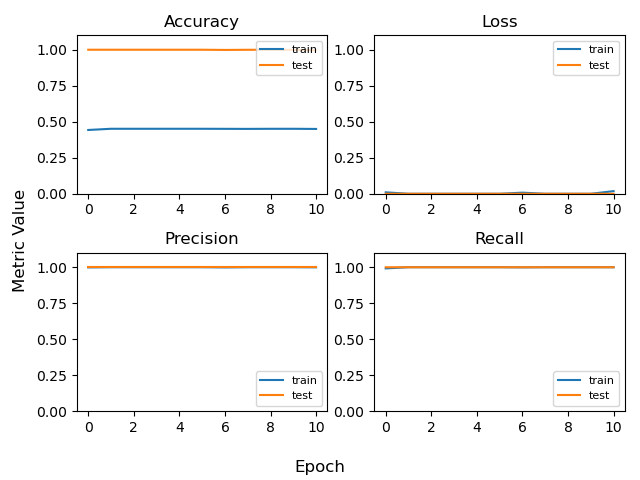
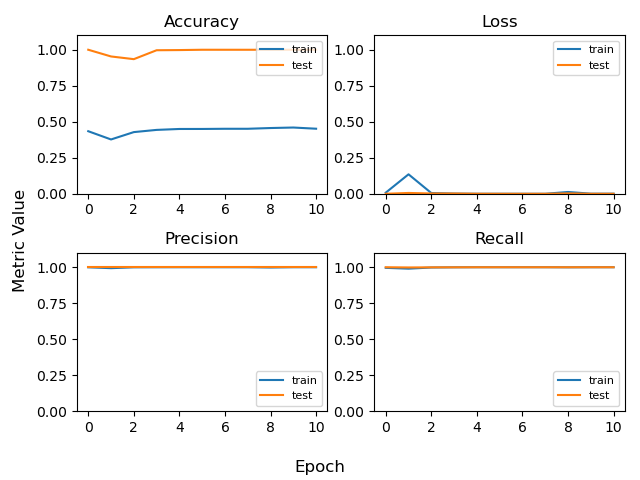
fixing test bug

diff --git a/ShapeDNN/PreprocessShape_enrich.py b/ShapeDNN/PreprocessShape_enrich.py
@@ -80,29 +80,19 @@ def preprocessShapeFile(seq_file, All_Shapes, test_clsts, train_clsts, file_list
 				Seqs = readInputAsArray(seq_file + enriched+'regions_seqOnly_'+shape+'.txt')
 			else:
 				Seqs = readInputAsArray(seq_file +species+'Eseqs_seqOnly_200000_'+shape+'.txt')
-				Sequences = readInputAsArray('/project/rohs_102/share/nucleosome_occupancy_data/'+species+'Eseqs_seqOnly_200000.txt')
-				print(seq_file +species+'Eseqs_seqOnly_200000_'+shape+'.txt')
-			seq_line_cnt=0	
+			#Seqs = readInputAsArray(seq_file +'wormEseqs_seqOnly_200000_'+shape+'.txt')
+			#Seqs = readInputAsArray(seq_file +'flyEseqs_seqOnly_200000_'+shape+'.txt')
 			for line in Seqs:
 				l = line.split()
-				if species == 'yeast':
-					if l[1] != '3': # Only consider flanking region of size 3
-						continue;
-					curr_seq_shape_list = list_str_to_float(l[2:])
-					curr_seq = l[0]
+				if l[1] != '3': # Only consider flanking region of size 3
+					continue;
+				curr_seq_shape_list = list_str_to_float(l[2:])
+				curr_seq = l[0]
 
-					if len(curr_seq) > len(curr_seq_shape_list):
-						bp_shape = False
-					else:
-						bp_shape = True
+				if len(curr_seq) > len(curr_seq_shape_list):
+					bp_shape = False
 				else:
-					curr_seq_shape_list = list_str_to_float(l)
-					curr_seq=Sequences[seq_line_cnt]
-					seq_line_cnt+=1
-					if len(curr_seq_shape_list) ==146:
-						bp_shape = False
-					else:
-						bp_shape = True
+					bp_shape = True
 
 				if bp_shape:
 					if len(curr_seq_shape_list) < 147:
@@ -216,7 +206,7 @@ def preprocessShapeFile(seq_file, All_Shapes, test_clsts, train_clsts, file_list
             # with gzip.open(seq_file+'test_processed_'+enriched+shape+'.gz', 'wb') as f:
             #     f.write(test_out.encode())
 
-
+# separate train/test data based on clustered sequence data
 def getClusterIndex(cluster_file, seq_file, species):
     all_curr_seq_index = []
     curr_seq_index = []
@@ -252,6 +242,10 @@ def getClusterIndex(cluster_file, seq_file, species):
     print(f"target train seqs {train_seq_num}")
     test_seq_num = total_select_seq_num - train_seq_num
     print(f"target test seqs {test_seq_num}")
+	
+    # first shuffle the cluster list
+    random.shuffle(all_curr_seq_index)
+
     for clstr in all_curr_seq_index:
         
         # 1. select the seqs from clstr
@@ -285,11 +279,12 @@ def getClusterIndex(cluster_file, seq_file, species):
     return test_clsts, train_clsts
 
 All_Shapes=['Buckle-FL', 'Buckle', 'EP', 'HelT-FL', 'HelT', 'MGW-FL', 'MGW',
-             'Opening-FL', 'Opening', 'ProT-FL', 'ProT', 'Rise-FL', 'Rise', 'Roll-FL',
-             'Roll', 'Shear-FL', 'Shear', 'Shift-FL', 'Shift', 'Slide-FL', 'Slide',
-             'Stagger-FL', 'Stagger', 'Stretch-FL', 'Stretch', 'Tilt-FL', 'Tilt']
-All_Shapes=['Buckle-FL','Stretch']
+			 'Opening-FL', 'Opening', 'ProT-FL', 'ProT', 'Rise-FL', 'Rise', 'Roll-FL',
+			 'Roll', 'Shear-FL', 'Shear', 'Shift-FL', 'Shift', 'Slide-FL', 'Slide',
+			 'Stagger-FL', 'Stagger', 'Stretch-FL', 'Stretch', 'Tilt-FL', 'Tilt']
 
+#All_Shapes=['Buckle-FL', 'Stretch']
+#All_Shapes=['Stagger-FL', 'Stagger','Stretch',  'Stretch-FL', 'Tilt-FL', 'Tilt']
 seq_file='/project/rohs_108/yibeijia/data/yibei_predictions2/'
 #seq_file='/home/yibei/Downloads/yibei_predictions/'
 import sys
@@ -302,41 +297,27 @@ path='/project/rohs_102/share/nucleosome_occupancy_data/'
 if species =='human': 
     Eseqs = readInputAsArray(path+species+'Eseqs.txt')[1:] # avoid the first \n
     Ecluster = readInputAsArray(path+species+'Eseqs80_every20.clstr')    
-    print(len(Eseqs))
-    print(len(Ecluster))
+    
 elif species == 'yeast':
     Eseqs = readInputAsArray(path+'Eseqs.txt')[1:] # avoid the first \n
     Ecluster = readInputAsArray(path+'Eseqs80.clstr')
     
     Dcluster = readInputAsArray(path+'Dseqs80.clstr')
     Dseqs = readInputAsArray(path+'Dseqs.txt')[1:]
-elif species =='fly':
+
+elif species == 'fly':
 	Eseqs = readInputAsArray(path+species+'Eseqs.txt')[1:] # avoid the first \n
 	Ecluster = readInputAsArray(path+species+'Eseqs80_every10.clstr')
-	print(len(Eseqs))
-	print(len(Ecluster))
+
 else:
     Eseqs = readInputAsArray(path+species+'Eseqs.txt')[1:] # avoid the first \n
     Ecluster = readInputAsArray(path+species+'Eseqs80_every5.clstr')
 
 file_list = ['enriched_']
 E_test_clsts, E_train_clsts = getClusterIndex(Ecluster, seq_file, species)
-print("E_test_clsts")
-print(E_test_clsts)
-print("E_train_clsts")
-print(E_train_clsts)
-if species != 'yeast':
-	E_test_clsts = E_test_clsts+E_train_clsts
-	print("species not yeast")
-	print("E_test_clsts")
-	print(E_test_clsts)
-	print("E_train_clsts")
-	print(E_train_clsts)
-	preprocessShapeFile(seq_file, All_Shapes, E_test_clsts, E_train_clsts,file_list, species)
-else:
-    preprocessShapeFile(seq_file, All_Shapes, E_test_clsts, E_train_clsts,file_list, species)
+preprocessShapeFile(seq_file, All_Shapes, E_test_clsts, E_train_clsts,file_list, species)
 
 #file_list = ['depleted_']
 #D_test_clsts, D_train_clsts = getClusterIndex(Dcluster, seq_file, species)
-#preprocessShapeFile(seq_file, All_Shapes, D_test_clsts, D_train_clsts,file_list )
-
+#preprocessShapeFile(seq_file, All_Shapes, D_test_clsts, D_train_clsts,file_list, species)
+#

diff --git a/ShapeDNN/PreprocessShape_deplete.py b/ShapeDNN/PreprocessShape_deplete.py
@@ -206,7 +206,7 @@ def preprocessShapeFile(seq_file, All_Shapes, test_clsts, train_clsts, file_list
             # with gzip.open(seq_file+'test_processed_'+enriched+shape+'.gz', 'wb') as f:
             #     f.write(test_out.encode())
 
-
+# separate train/test data based on clustered sequence data
 def getClusterIndex(cluster_file, seq_file, species):
     all_curr_seq_index = []
     curr_seq_index = []
@@ -242,6 +242,10 @@ def getClusterIndex(cluster_file, seq_file, species):
     print(f"target train seqs {train_seq_num}")
     test_seq_num = total_select_seq_num - train_seq_num
     print(f"target test seqs {test_seq_num}")
+	
+    # first shuffle the cluster list
+    random.shuffle(all_curr_seq_index)
+
     for clstr in all_curr_seq_index:
         
         # 1. select the seqs from clstr
@@ -274,13 +278,13 @@ def getClusterIndex(cluster_file, seq_file, species):
     # print(train_clsts)
     return test_clsts, train_clsts
 
-#	All_Shapes=['Buckle-FL', 'Buckle', 'EP', 'HelT-FL', 'HelT', 'MGW-FL', 'MGW',
-#				 'Opening-FL', 'Opening', 'ProT-FL', 'ProT', 'Rise-FL', 'Rise', 'Roll-FL',
-#				 'Roll', 'Shear-FL', 'Shear', 'Shift-FL', 'Shift', 'Slide-FL', 'Slide',
-#				 'Stagger-FL', 'Stagger', 'Stretch-FL', 'Stretch', 'Tilt-FL', 'Tilt']
+All_Shapes=['Buckle-FL', 'Buckle', 'EP', 'HelT-FL', 'HelT', 'MGW-FL', 'MGW',
+			 'Opening-FL', 'Opening', 'ProT-FL', 'ProT', 'Rise-FL', 'Rise', 'Roll-FL',
+			 'Roll', 'Shear-FL', 'Shear', 'Shift-FL', 'Shift', 'Slide-FL', 'Slide',
+			 'Stagger-FL', 'Stagger', 'Stretch-FL', 'Stretch', 'Tilt-FL', 'Tilt']
 
-All_Shapes=['Buckle-FL', 'Stretch']
-All_Shapes=['Stagger-FL', 'Stagger','Stretch',  'Stretch-FL', 'Tilt-FL', 'Tilt']
+#All_Shapes=['Buckle-FL', 'Stretch']
+#All_Shapes=['Stagger-FL', 'Stagger','Stretch',  'Stretch-FL', 'Tilt-FL', 'Tilt']
 seq_file='/project/rohs_108/yibeijia/data/yibei_predictions2/'
 #seq_file='/home/yibei/Downloads/yibei_predictions/'
 import sys

diff --git a/ShapeDNN/testShapeDNN.py b/ShapeDNN/testShapeDNN.py
@@ -159,6 +159,10 @@ print("Averaged AUPR:", np.nanmean(auprs))
 from sklearn.metrics import accuracy_score
 from sklearn.metrics import precision_score
 from sklearn.metrics import recall_score 
-print("accuracy_score", accuracy_score(y_test.T,tpreds))
-print("precision_score", precision_score(y_test.T,tpreds))
-print("recall_score", recall_score(y_test.T,tpreds))
+print('y_test size')
+print(np.array(y_test).shape)
+print('tpreds size')
+print(np.array(tpreds).shape)
+print("accuracy_score", accuracy_score(y_test,tpreds))
+print("precision_score", precision_score(y_test,tpreds))
+print("recall_score", recall_score(y_test,tpreds))
